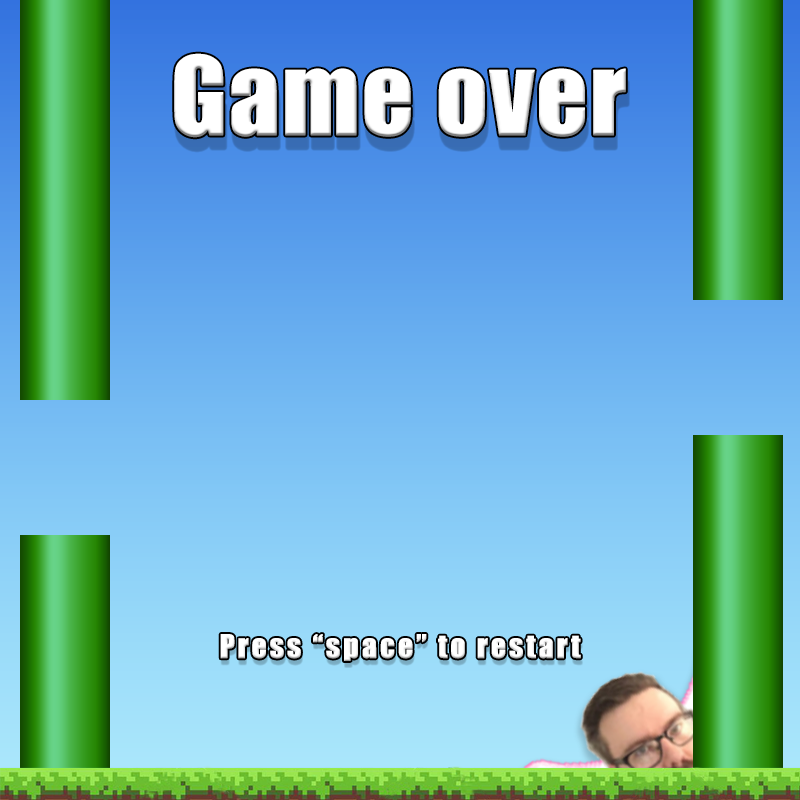
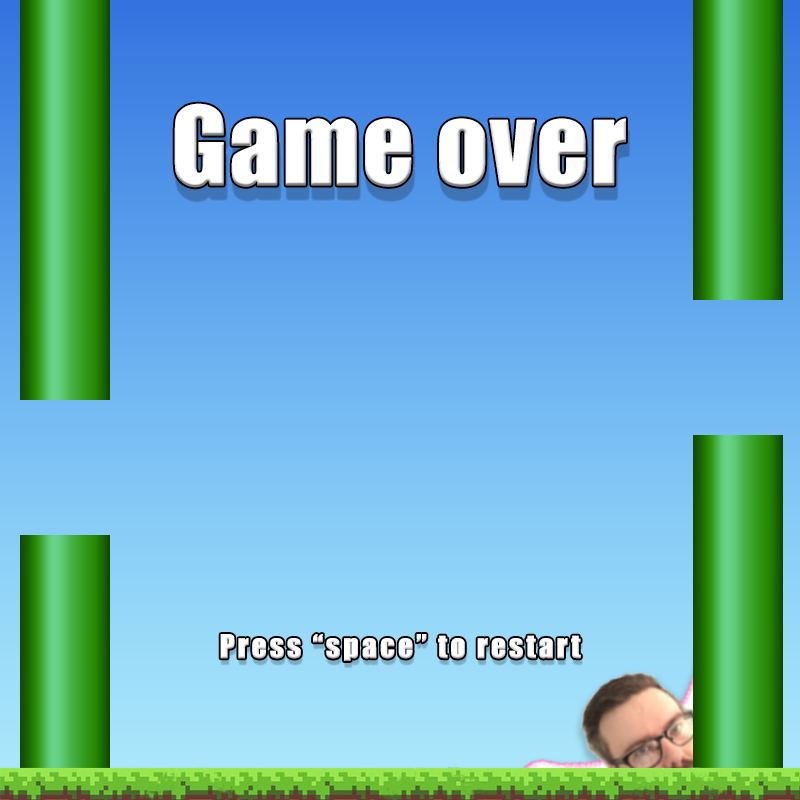
Readjust images

Changed region(s): [[0.1875, 0.0625, 0.8125, 0.25]]

diff --git a/GameSurface.java b/GameSurface.java
@@ -121,7 +121,7 @@ public class GameSurface extends JPanel implements ActionListener, KeyListener {
             System.exit(-1);
         }
 
-        this.birb = new Rectangle(60, width / 2 - 15, 40, 30);
+        this.birb = new Rectangle(60, width / 2 - 15, 60, 45);
         this.ground = new Rectangle(0, height - 35, 1600, 35);
 
         // How many obstacles to spawn
@@ -231,7 +231,7 @@ public class GameSurface extends JPanel implements ActionListener, KeyListener {
     }
 
     private void startScreen(Graphics g, final Dimension d) {
-        g.drawImage(imageStartScreen, 0, -35, null);
+        g.drawImage(imageStartScreen, -9, -39, null);
     }
 
     private void gameOverScreen(Graphics g, final Dimension d) {
@@ -244,7 +244,7 @@ public class GameSurface extends JPanel implements ActionListener, KeyListener {
             Highscore.checkHighscore(highscores, score, hardMode, hsc);
             difficulty = " Normal";
         }
-        g.drawImage(imageEndScreen, 0, 0, null);
+        g.drawImage(imageEndScreen, -9, -39, null);
         g.setFont(new Font("Consolas", Font.BOLD, 48));
         g.drawString("Your score: " + score, (d.width / 2) - 180, (d.height / 4) + 50);
 
@@ -366,7 +366,8 @@ public class GameSurface extends JPanel implements ActionListener, KeyListener {
         obstacleCheck = true;
         score = 0;
 
-        this.birb = new Rectangle(60, d.width / 2 - 15, 40, 30);
+        birb.x = 60;
+        birb.y = d.width / 2 - 15;
 
         // How many obstacles to spawn
         for (int i = 0; i < 1; ++i) {
